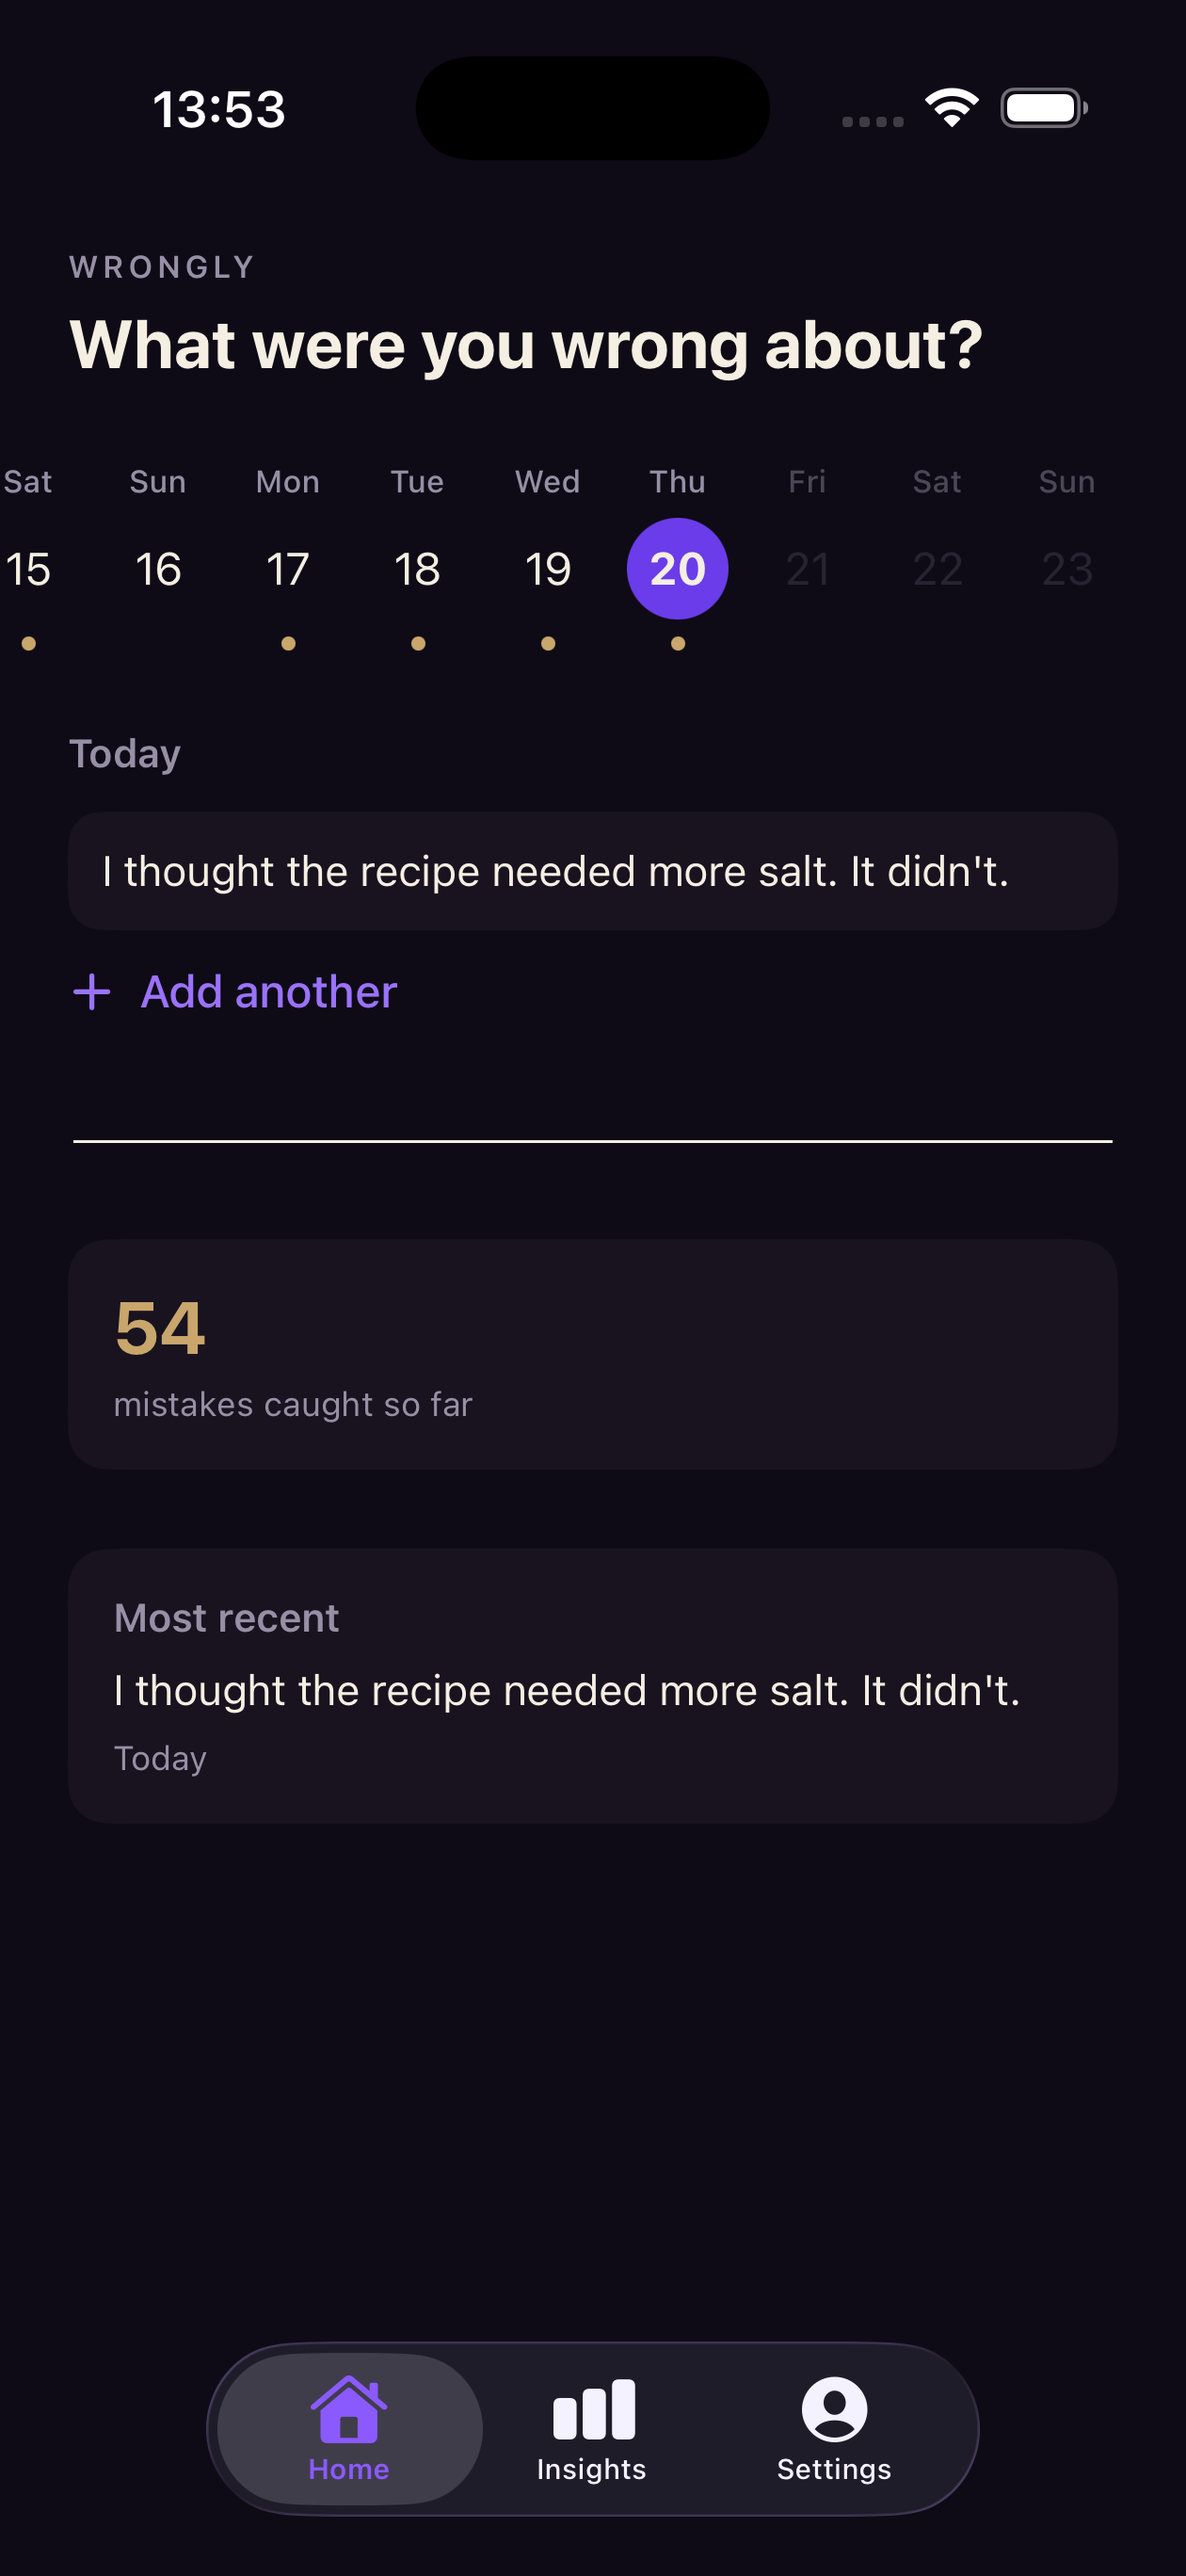
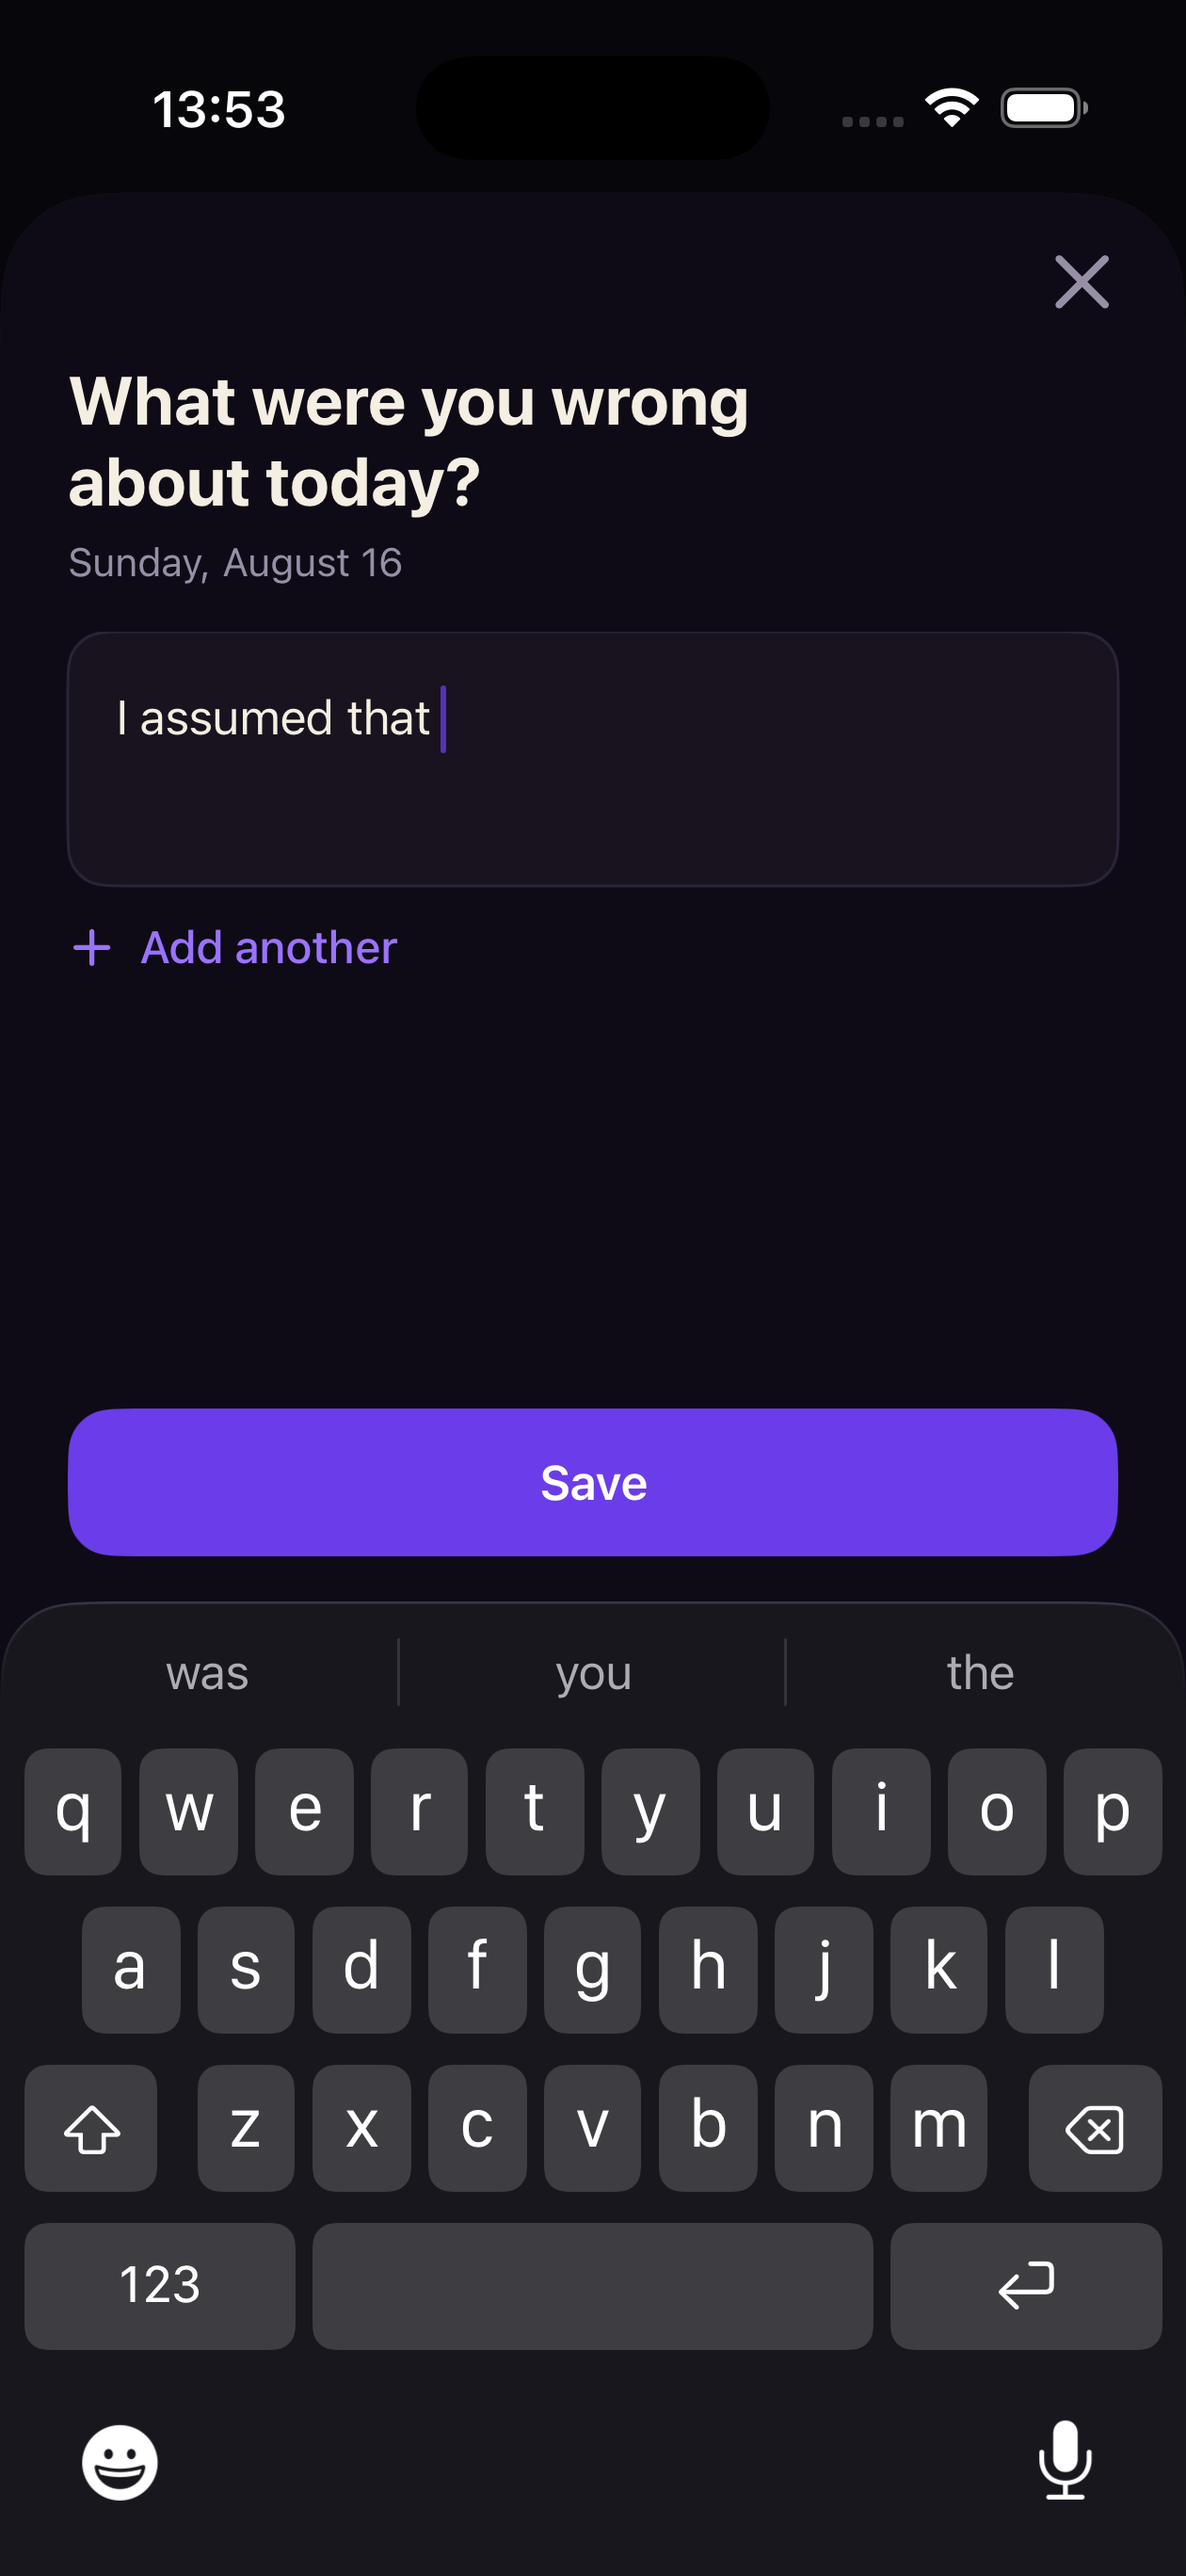
added wrongly

diff --git a/projects/index.html b/projects/index.html
@@ -49,6 +49,23 @@
 
     <div class="projects-grid">
 
+      <!-- Wrongly -->
+      <a href="./wrongly.html" class="project-card">
+        <div class="card-image-wrap">
+          <img src="../images/wrongly/2.png" alt="Wrongly" class="card-img h-600">
+        </div>
+        <div class="card-type type-app">App — iOS &amp; Android</div>
+        <div class="card-body">
+          <div class="card-title">Wrongly</div>
+          <p class="card-desc">A daily journal for catching your own bad judgment sooner. One sentence a day about what you were wrong about — and a map of your blind spots over time.</p>
+        </div>
+        <div class="card-tags">
+          <span class="tag">SwiftUI</span>
+          <span class="tag">Android</span>
+        </div>
+        <div class="card-arrow">View project &rarr;</div>
+      </a>
+
       <!-- dissolve -->
       <a href="./dissolve.html" class="project-card">
         <div class="card-image-wrap">
